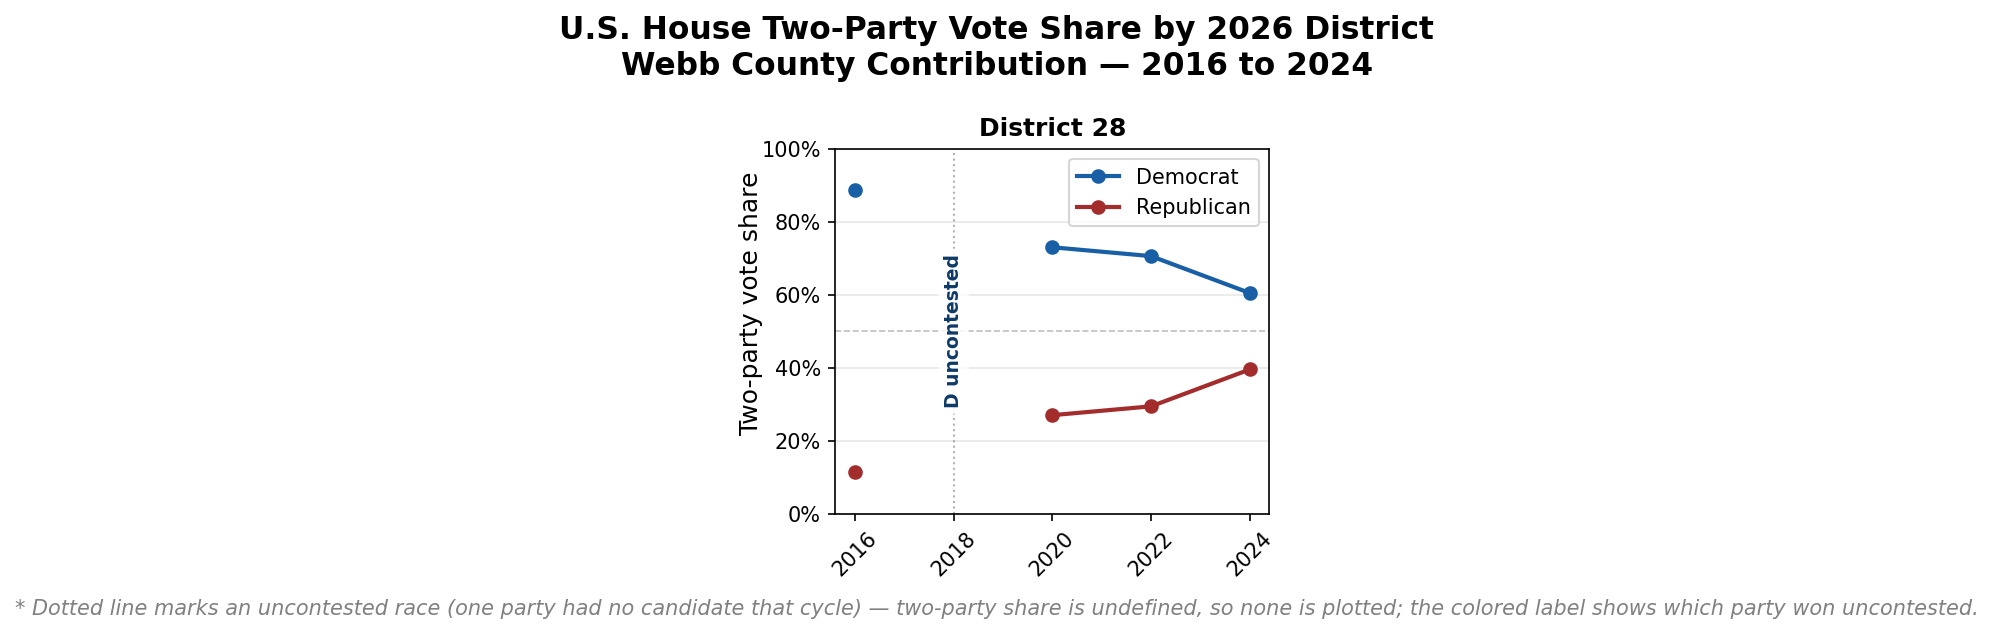
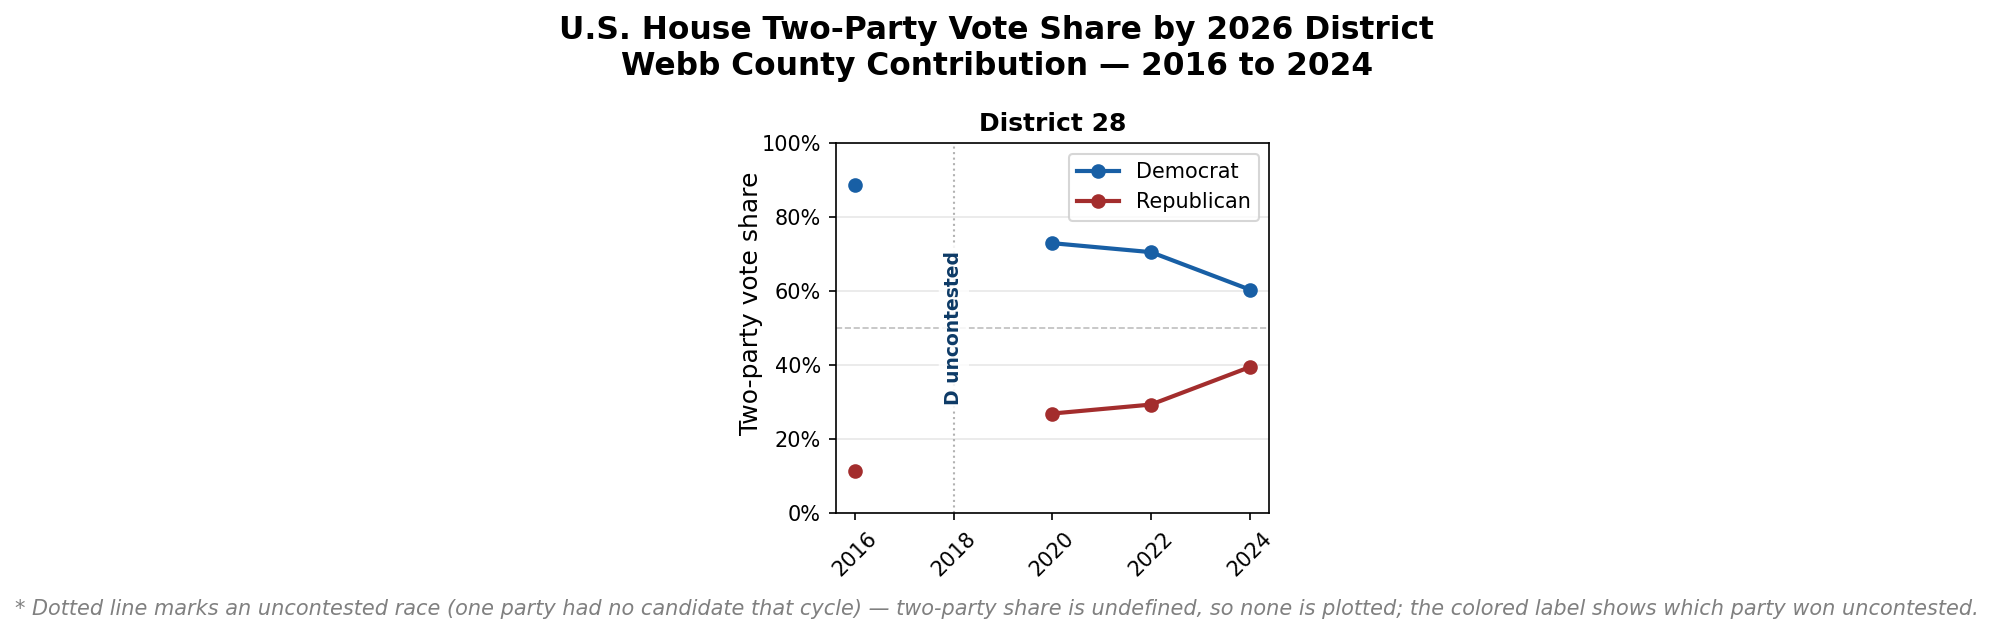
Fix near-zero uncontested handling in trend/map viz
- build_two_party_pivot: flag uncontested on near-zero share (not just NaN),
  since interpolation can bleed a few votes across boundaries (e.g. Tarrant
  D6 2022: 92 D votes of ~48k)
- winner picked by larger vote total; uncontested rows' shares set NaN so
  lines gap cleanly instead of showing a misleading cliff
- add plot_trend.py: render a county's trend chart from saved CSV via the
  real pipeline_viz functions (no notebook needed)

diff --git a/scripts/pipeline_viz.py b/scripts/pipeline_viz.py
@@ -28,7 +28,7 @@ Design notes:
 import matplotlib.pyplot as plt
 import matplotlib.ticker as mtick
 import numpy as np
-
+import pandas as pd
 
 # Brand colors (kept consistent with the original notebook cells)
 DEM_COLOR = '#185FA5'
@@ -71,22 +71,44 @@ def build_two_party_pivot(time_series):
         if col not in pivot.columns:
             pivot[col] = np.nan
 
-    # Uncontested = one party has no votes at all that cycle/district
-    pivot['uncontested'] = pivot['DEMOCRAT'].isna() | pivot['REPUBLICAN'].isna()
+    # Uncontested = one party has essentially no votes that cycle/district.
+    # NaN (party entirely absent) OR a negligible share (interpolation can leave
+    # a few stray votes bled in from an adjacent district, e.g. Tarrant D6 2022
+    # had 92 D votes out of ~48k — that's an uncontested race, not a 0.2% race).
+    UNCONTESTED_SHARE = 1.0  # percent of the two-party total
+    _total = pivot['DEMOCRAT'].fillna(0) + pivot['REPUBLICAN'].fillna(0)
+    _dem_pct = pivot['DEMOCRAT'].fillna(0) / _total.replace(0, np.nan) * 100
+    _rep_pct = pivot['REPUBLICAN'].fillna(0) / _total.replace(0, np.nan) * 100
+    pivot['uncontested'] = (
+    pivot['DEMOCRAT'].isna() | pivot['REPUBLICAN'].isna()
+    | (_dem_pct < UNCONTESTED_SHARE) | (_rep_pct < UNCONTESTED_SHARE)
+    )
+        
     pivot['total'] = pivot['DEMOCRAT'] + pivot['REPUBLICAN']
     pivot['dem_share'] = pivot['DEMOCRAT'] / pivot['total'] * 100
     pivot['rep_share'] = pivot['REPUBLICAN'] / pivot['total'] * 100
 
-    # Who won an uncontested race: the one party that actually has votes.
-    # NaN for contested rows. Derived purely from which party column is populated,
-    # so no extra data is needed — the winner is already implied by the pivot.
-    # (x == x is False only when x is NaN, so it's a NaN check without importing isna.)
-    pivot['uncontested_winner'] = pivot.apply(
-        lambda r: 'DEMOCRAT' if (r['uncontested'] and r['DEMOCRAT'] == r['DEMOCRAT'])
-        else ('REPUBLICAN' if (r['uncontested'] and r['REPUBLICAN'] == r['REPUBLICAN'])
-              else np.nan),
-        axis=1,
-    )
+    # For uncontested rows the two-party share is meaningless (one party had
+    # essentially no votes), so blank it out — the line plots skip NaN, leaving
+    # a clean gap at that year instead of a misleading cliff. The dotted marker
+    # and 'uncontested' label still show what happened there.
+    pivot.loc[pivot['uncontested'], ['dem_share', 'rep_share']] = np.nan
+
+    # Who won an uncontested race: the party with essentially all the votes.
+    # Works for both the NaN case (party absent) and the near-zero case (tiny
+    # bled-in votes), since we take the larger of the two totals rather than
+    # checking which column is non-NaN.
+    def _uncontested_winner(r):
+        if not r['uncontested']:
+            return np.nan
+        dem = 0 if pd.isna(r['DEMOCRAT']) else r['DEMOCRAT']
+        rep = 0 if pd.isna(r['REPUBLICAN']) else r['REPUBLICAN']
+        if dem == 0 and rep == 0:
+            return np.nan
+        return 'DEMOCRAT' if dem >= rep else 'REPUBLICAN'
+
+    pivot['uncontested_winner'] = pivot.apply(_uncontested_winner, axis=1)
+
     return pivot
 
 

diff --git a/scripts/plot_trend.py b/scripts/plot_trend.py
@@ -1,0 +1,59 @@
+"""
+plot_trend.py — quick trend chart for a county straight from its saved
+data/processed/<slug>_house_time_series.csv, using the REAL pipeline_viz
+functions (so uncontested races render correctly, identical to notebook output).
+
+This is a thin wrapper: it loads the saved time series and calls
+pipeline_viz.build_two_party_pivot + pipeline_viz.plot_trend_lines. No plotting
+logic is duplicated here, so the output matches what the notebooks produce
+(including the Webb-style uncontested handling).
+
+Usage (from repo root):
+    python scripts/plot_trend.py harris
+    python scripts/plot_trend.py tarrant
+
+The chart is saved wherever plot_trend_lines saves it (docs/images/), same as
+a notebook run.
+"""
+
+import argparse
+import os
+import sys
+
+import pandas as pd
+
+SCRIPT_DIR = os.path.dirname(os.path.abspath(__file__))
+sys.path.append(SCRIPT_DIR)
+
+import pipeline_viz as viz  # noqa: E402
+
+REPO_ROOT = os.path.abspath(os.path.join(SCRIPT_DIR, ".."))
+PROCESSED = os.path.join(REPO_ROOT, "data", "processed")
+
+
+def main():
+    ap = argparse.ArgumentParser(description=__doc__)
+    ap.add_argument("slug", help="county slug, e.g. harris")
+    ap.add_argument("--name", default=None,
+                    help="display name (defaults to Title-cased slug)")
+    args = ap.parse_args()
+
+    slug = args.slug.lower().replace(" ", "_")
+    name = args.name or slug.replace("_", " ").title()
+
+    path = os.path.join(PROCESSED, f"{slug}_house_time_series.csv")
+    if not os.path.exists(path):
+        sys.exit(f"No time series found at {path}")
+
+    time_series = pd.read_csv(path)
+
+    # Use the real viz pipeline so uncontested handling matches the notebooks.
+    pivot = viz.build_two_party_pivot(time_series)
+    viz.plot_trend_lines(pivot, name, slug)
+
+    print(f"Plotted {name} County from {path}")
+    print("(saved by plot_trend_lines, same location as a notebook run)")
+
+
+if __name__ == "__main__":
+    main()
